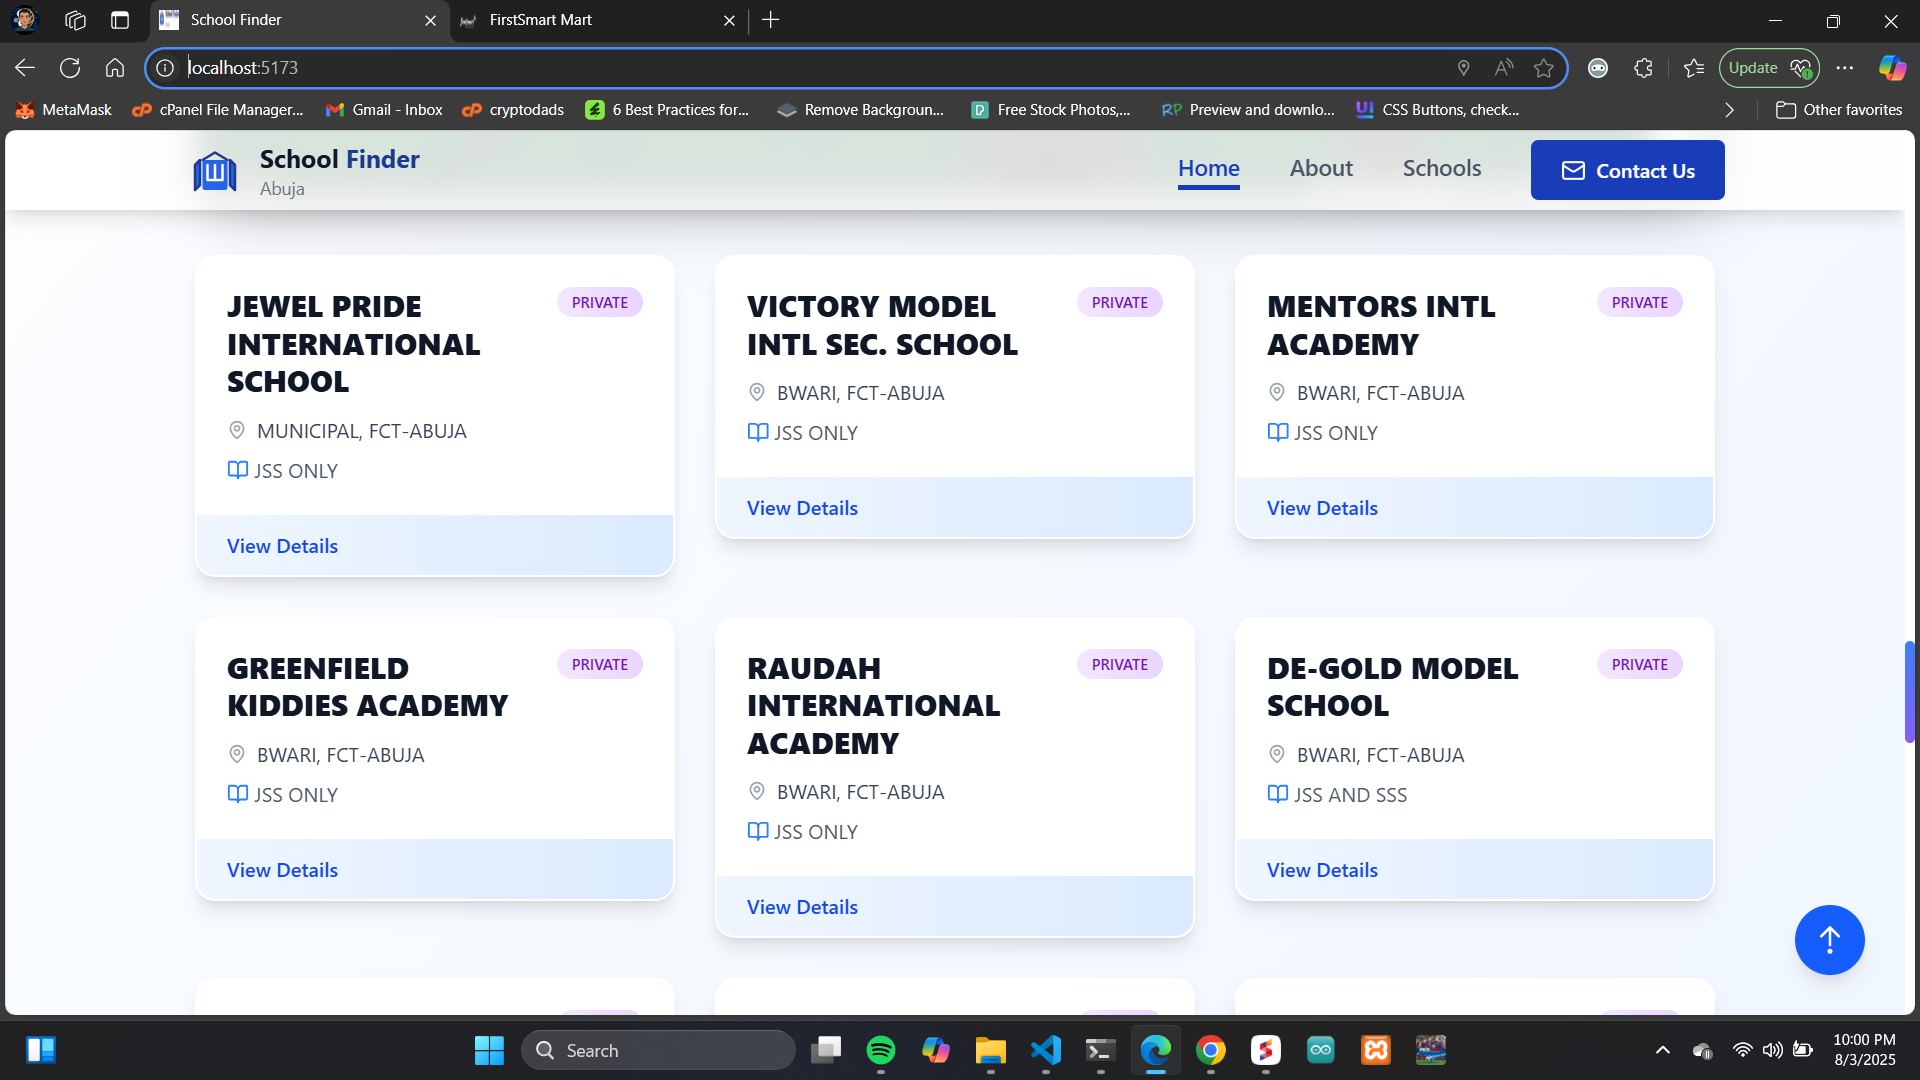
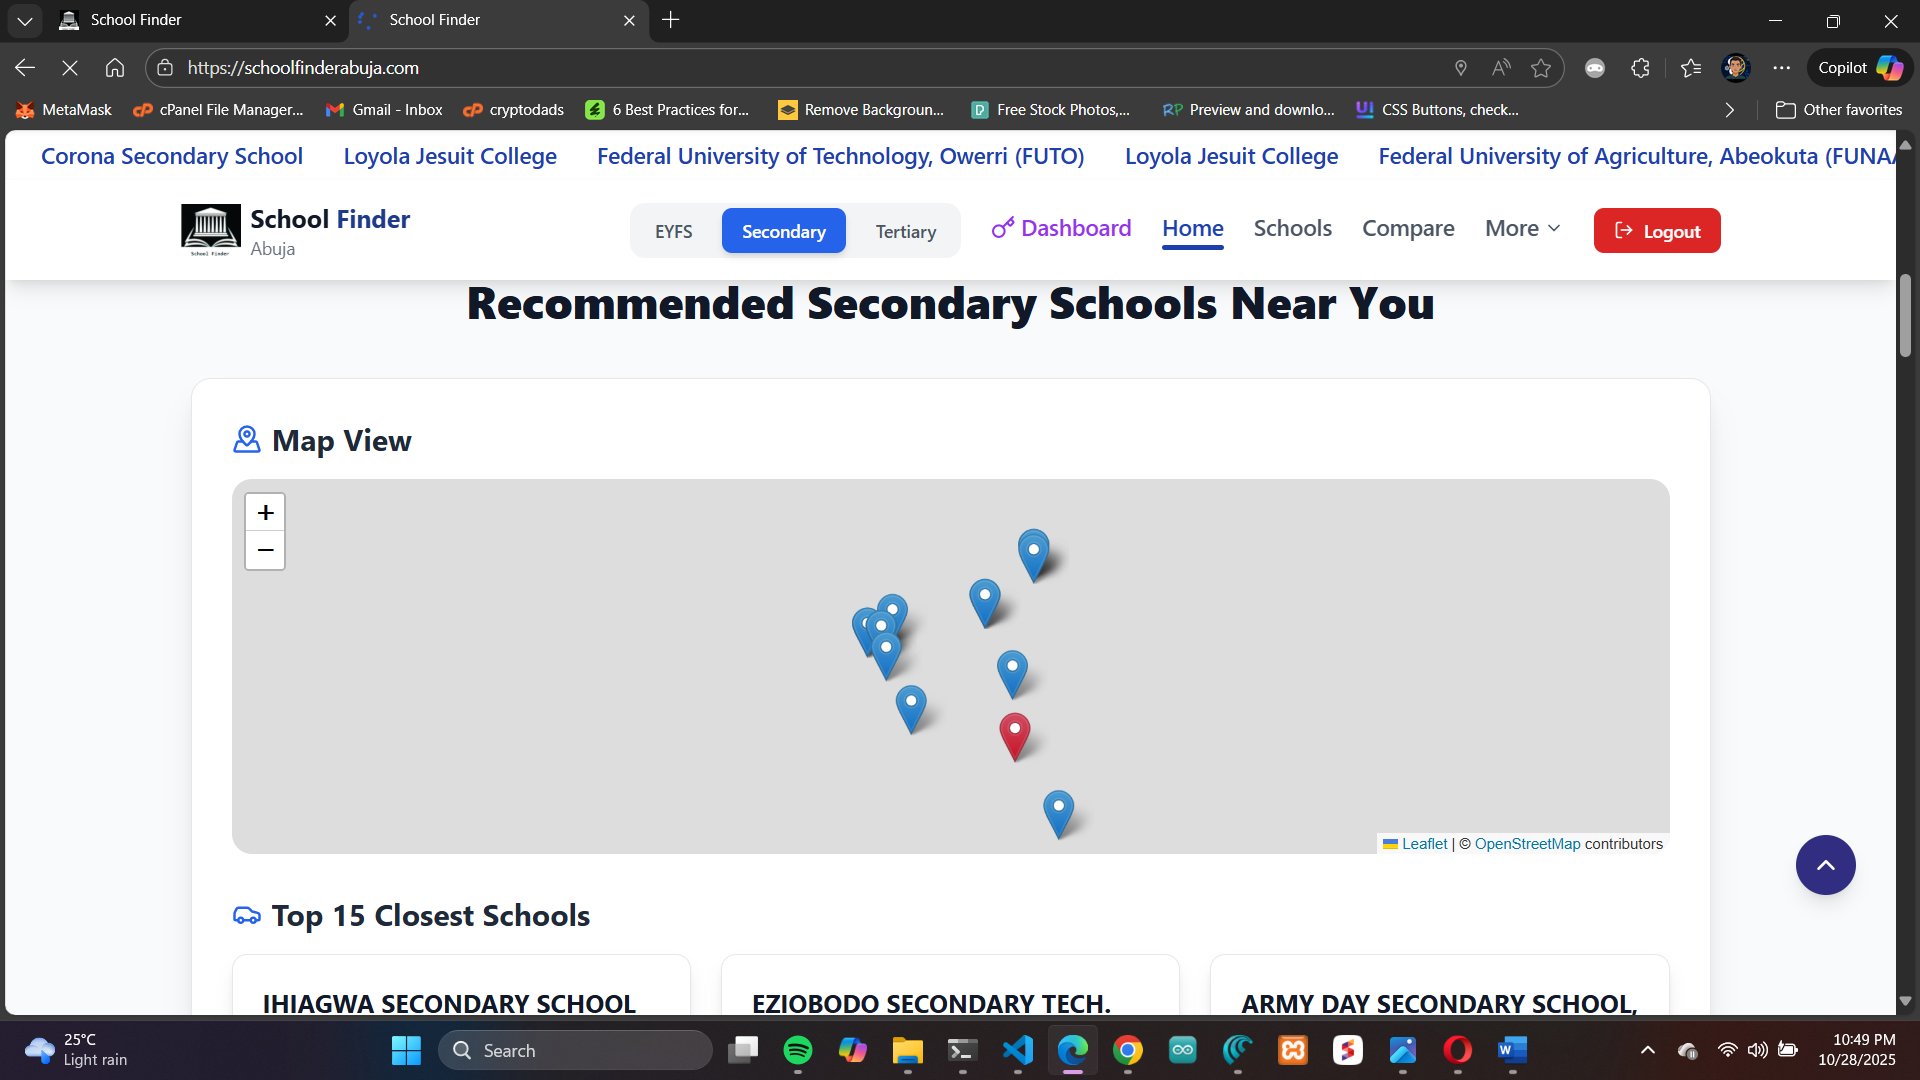
updated

diff --git a/src/components/Projects.jsx b/src/components/Projects.jsx
@@ -13,9 +13,52 @@ import firstSmartMart1 from "../assets/firstSmartMart1.png";
 import firstSmartMart2 from "../assets/firstSmartMart2.png";
 import schoolFinder1 from "../assets/schoolfinder1.png";
 import schoolFinder2 from "../assets/schoolfinder2.png";
+import schoolFinder3 from "../assets/schoolfinder3.png";
+import schoolFinder4 from "../assets/schoolfinder4.png";
+import schoolFinder5 from "../assets/schoolfinder5.png";
+import schoolFinder6 from "../assets/schoolfinder6.png";
+import solSweep1 from "../assets/SolSweep1.png";
+import solSweep2 from "../assets/SolSweep2.png";
 import mysite from "../assets/mysite.png";
+import Agrosense1 from "../assets/Agrosense1.jpeg";
+import Agrosense2 from "../assets/Agrosense2.jpeg";
+import Agrosense3 from "../assets/Agrosense3.png";
+import Agrosense4 from "../assets/Agrosense4.png";
+import Agrosense5 from "../assets/Agrosense5.png";
+import FamilyAnchor1 from "../assets/familyanchor1.png";
+import FamilyAnchor2 from "../assets/familyanchor2.png";
+import FamilyAnchor3 from "../assets/familyanchor3.png";
 
 const projectsData = [
+  {
+    images: [
+      Agrosense1,
+      Agrosense2,
+      Agrosense3,
+      Agrosense4,
+      Agrosense5,
+    ],
+    title: "AgroSense360",
+    description: "Smart Crop Health Monitoring and Advisory Using AI and IoT Based Mulitilingual Rover System",
+    tech: ["React", "TailwindCSS", "Firebase", "ESP32", "Arduino", "Python"],
+    link: "https://schoolfinderabj.web.app/",
+    github: "#",
+    category: "IoT & Hardware"
+
+  },
+  {
+    images: [
+      FamilyAnchor1,
+      FamilyAnchor2,
+      FamilyAnchor3,
+    ],
+    title: "Family Anchor",
+    description: "A web platform that connects families with local resources, support services, and community events to strengthen family bonds and well-being.",
+    tech: ["React", "TailwindCSS"],
+    link: "https://familyanchor.org/",
+    github: "#",
+    category: "Web Development"
+  },
   {
     images: [
       firstSmartMart1,
@@ -32,13 +75,29 @@ const projectsData = [
     images: [
       schoolFinder1,
       schoolFinder2,
+      schoolFinder3,
+      schoolFinder4,
+      schoolFinder5,
+      schoolFinder6,
     ],
     title: "School Finder",
-    description: "A website used to Find the Perfect Secondary School for your kid in Abuja and Nigeria as a whole",
-    tech: ["React", "TailwindCSS", "JSON"],
-    link: "https://schoolfinderr.web.app/",
-    github: "#",
+    description: "A website used to Find the Perfect School (Nursery, Primary, Secondary, Tertiary) for your kid in Abuja and Nigeria as a whole.",
+    tech: ["React", "TailwindCSS", "Laravel", "MySQL"],
+    link: "https://schoolfinderabuja.com/",
+    github: "https://github.com/AustinChris1/SchoolFinder",
     category: "Education"
+  },
+  {
+    images: [
+      solSweep1,
+      solSweep2,
+    ],
+    title: "Solana Token Sweeper",
+    description: "A program that  that automatically detects and swaps all non-SOL tokens in a given wallet to SOL on the Solana blockchain.",
+    tech: ["React", "TailwindCSS", "Javascript", "Vercel"],
+    link: "https://solanasweep.vercel.app/",
+    github: "https://github.com/AustinChris1/SolSweep",
+    category: "Blockchain"
   },
   {
     images: [
@@ -56,7 +115,7 @@ const projectsData = [
       firstdigit,
     ],
     title: "First Digit Website",
-    description: "A modern communication platform website focusing on helping users stay connected in the digital world with advanced features.",
+    description: "A modern platform website focusing on helping users stay connected in the digital world with advanced features.",
     tech: ["React", "PHP", "MySQL", "TailwindCSS"],
     link: "https://www.firstdigit.com.ng/",
     github: "#",
@@ -68,7 +127,7 @@ const projectsData = [
     ],
     title: "Emergency Dashboard",
     description: "A real-time emergency response dashboard for monitoring critical situations with live data visualization and alert systems.",
-    tech: ["React", "D3.js", "WebSocket", "Python"],
+    tech: ["React", "TailwindCSS", "PHP", "MySQL"],
     link: "#",
     github: "https://github.com/AustinChris1/EmergencySystem",
     category: "Data Analytics"
@@ -79,7 +138,7 @@ const projectsData = [
     ],
     title: "ESP32 Firebase Integration",
     description: "An ESP32 project that listens to Firebase real-time updates to control lights and monitor room temperature with graphical data.",
-    tech: ["ESP32", "Firebase", "C++", "IoT"],
+    tech: ["ESP32", "Firebase", "Arduino", "IoT"],
     link: "https://esp-test-43661.web.app/#",
     github: "#",
     category: "IoT & Hardware"
@@ -90,7 +149,7 @@ const projectsData = [
     ],
     title: "Motoko Student Wall",
     description: "A decentralized student forum built with Motoko for the Internet Computer ecosystem with blockchain-based interactions.",
-    tech: ["Motoko", "Internet Computer", "Blockchain"],
+    tech: ["Motoko", "Internet Computer", "JS"],
     link: "https://7vjgk-cqaaa-aaaal-ackqq-cai.icp0.io/",
     github: "#",
     category: "Blockchain"